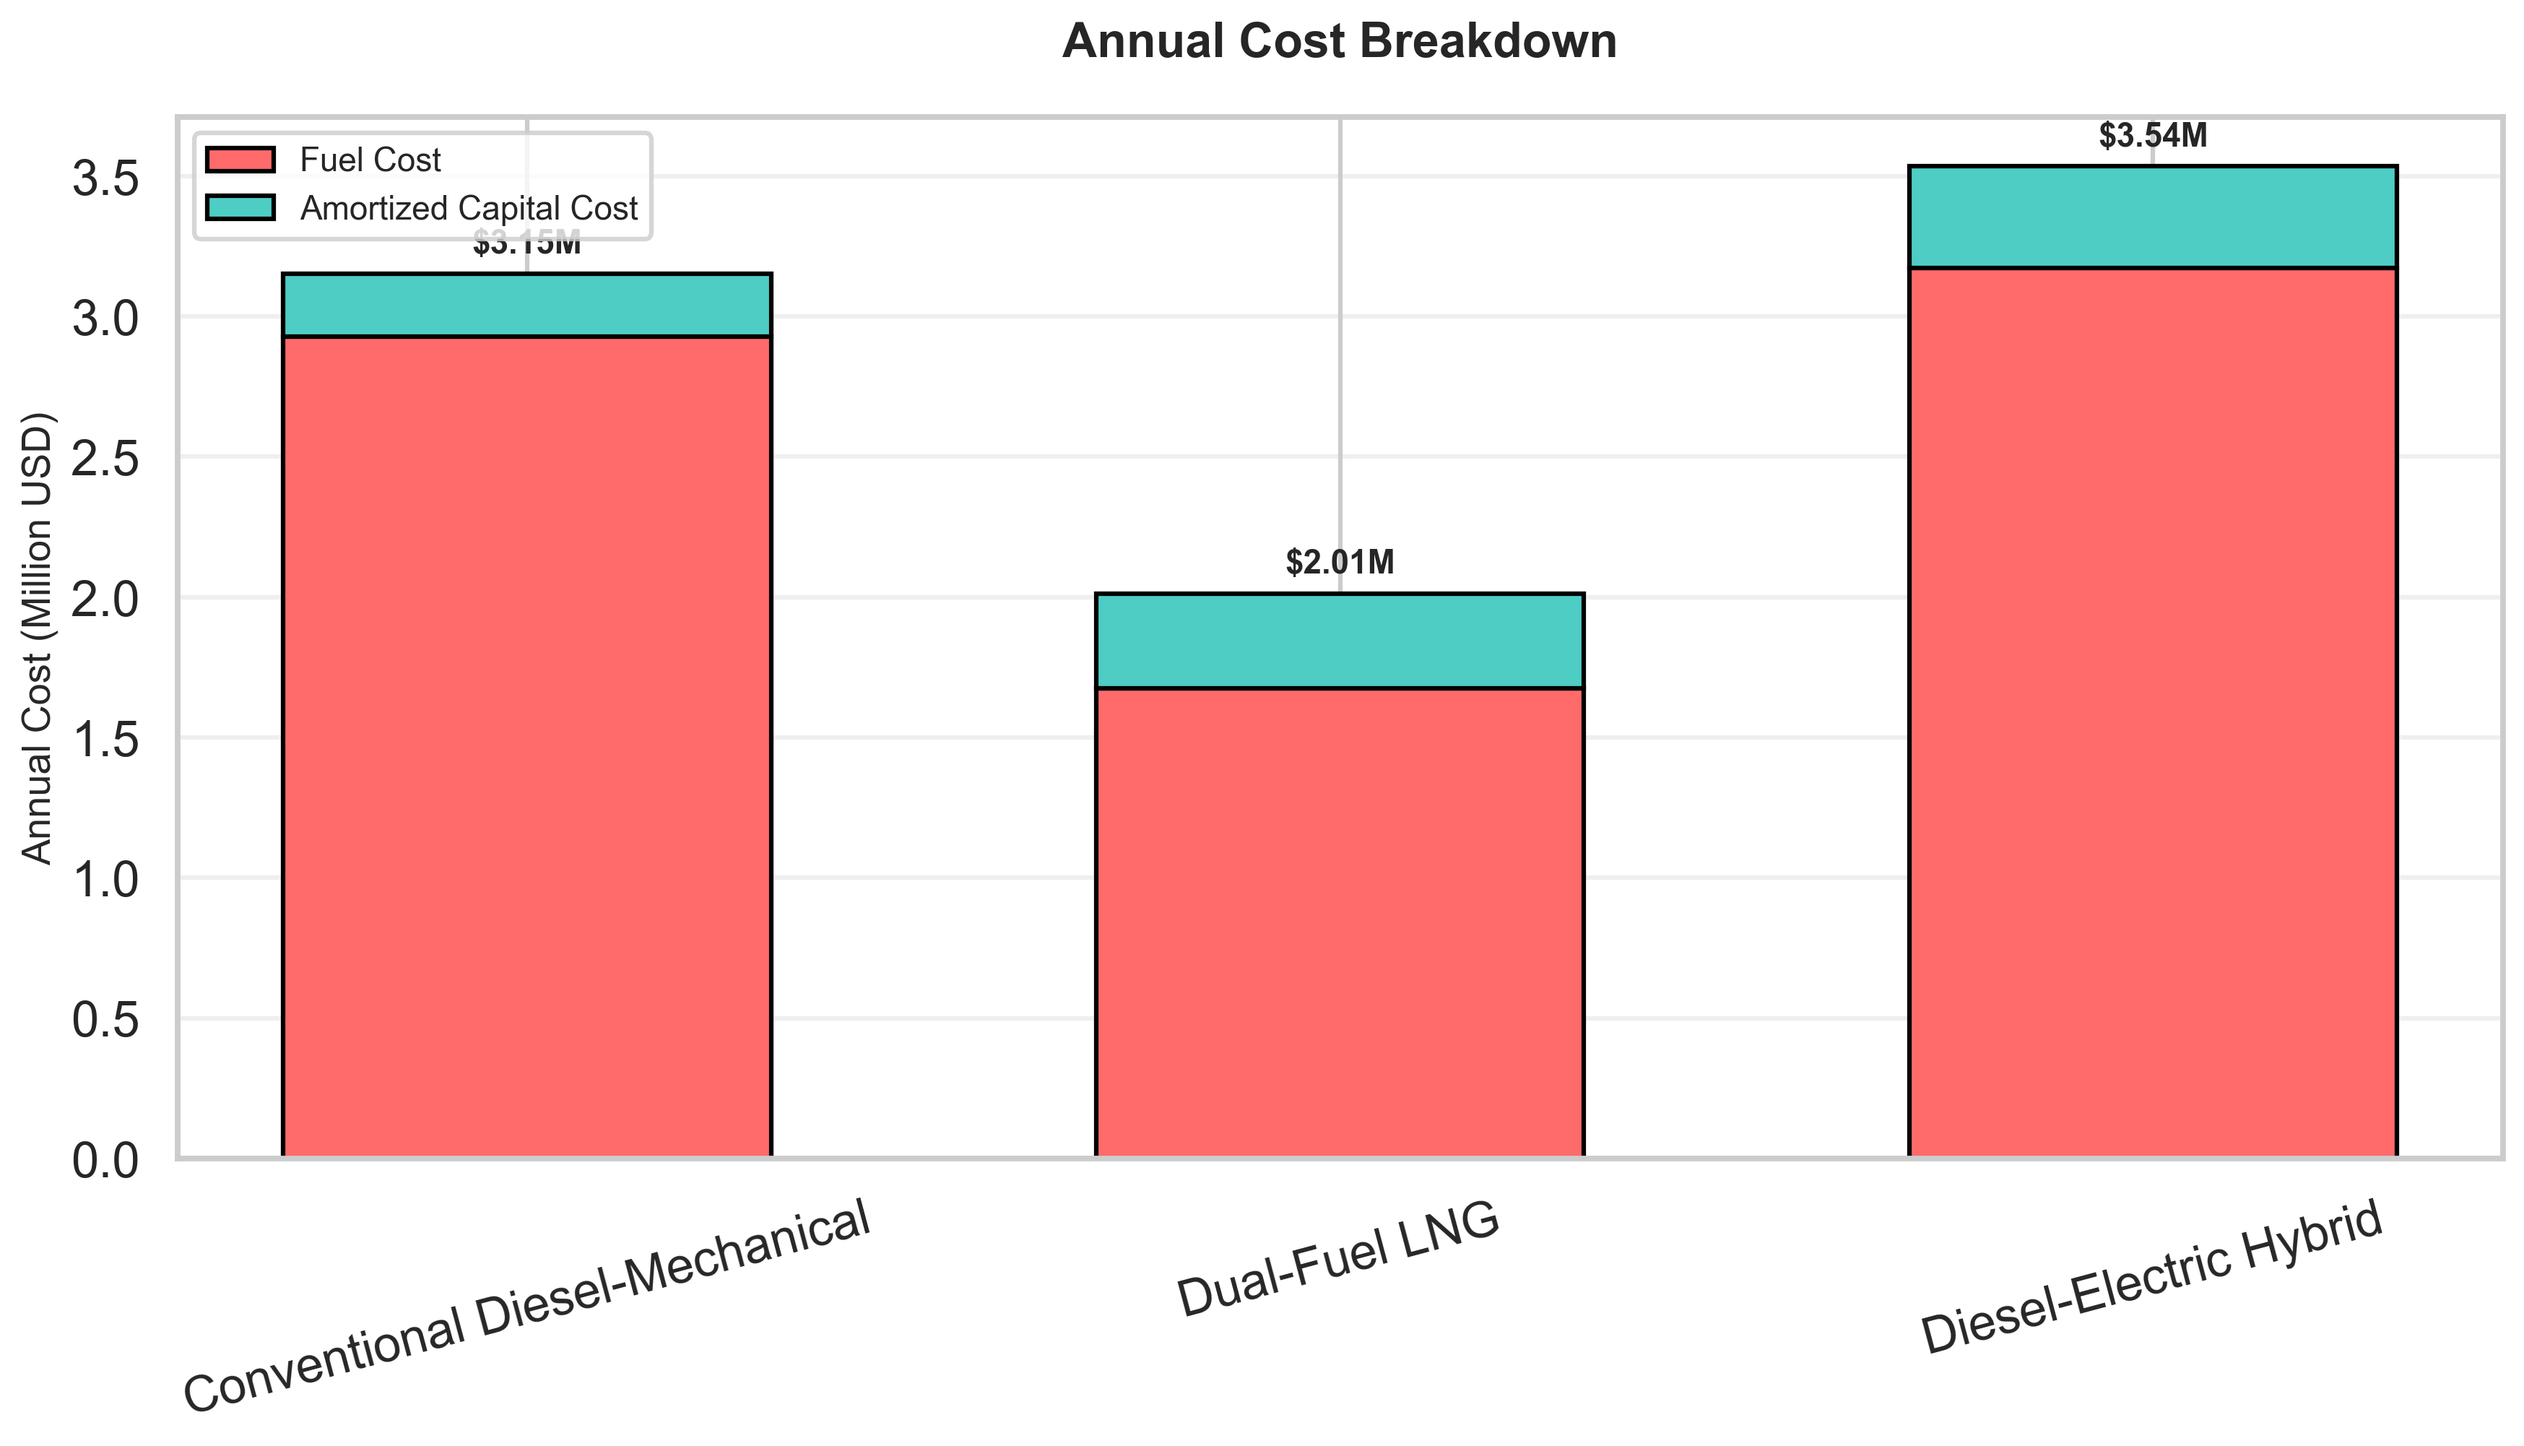
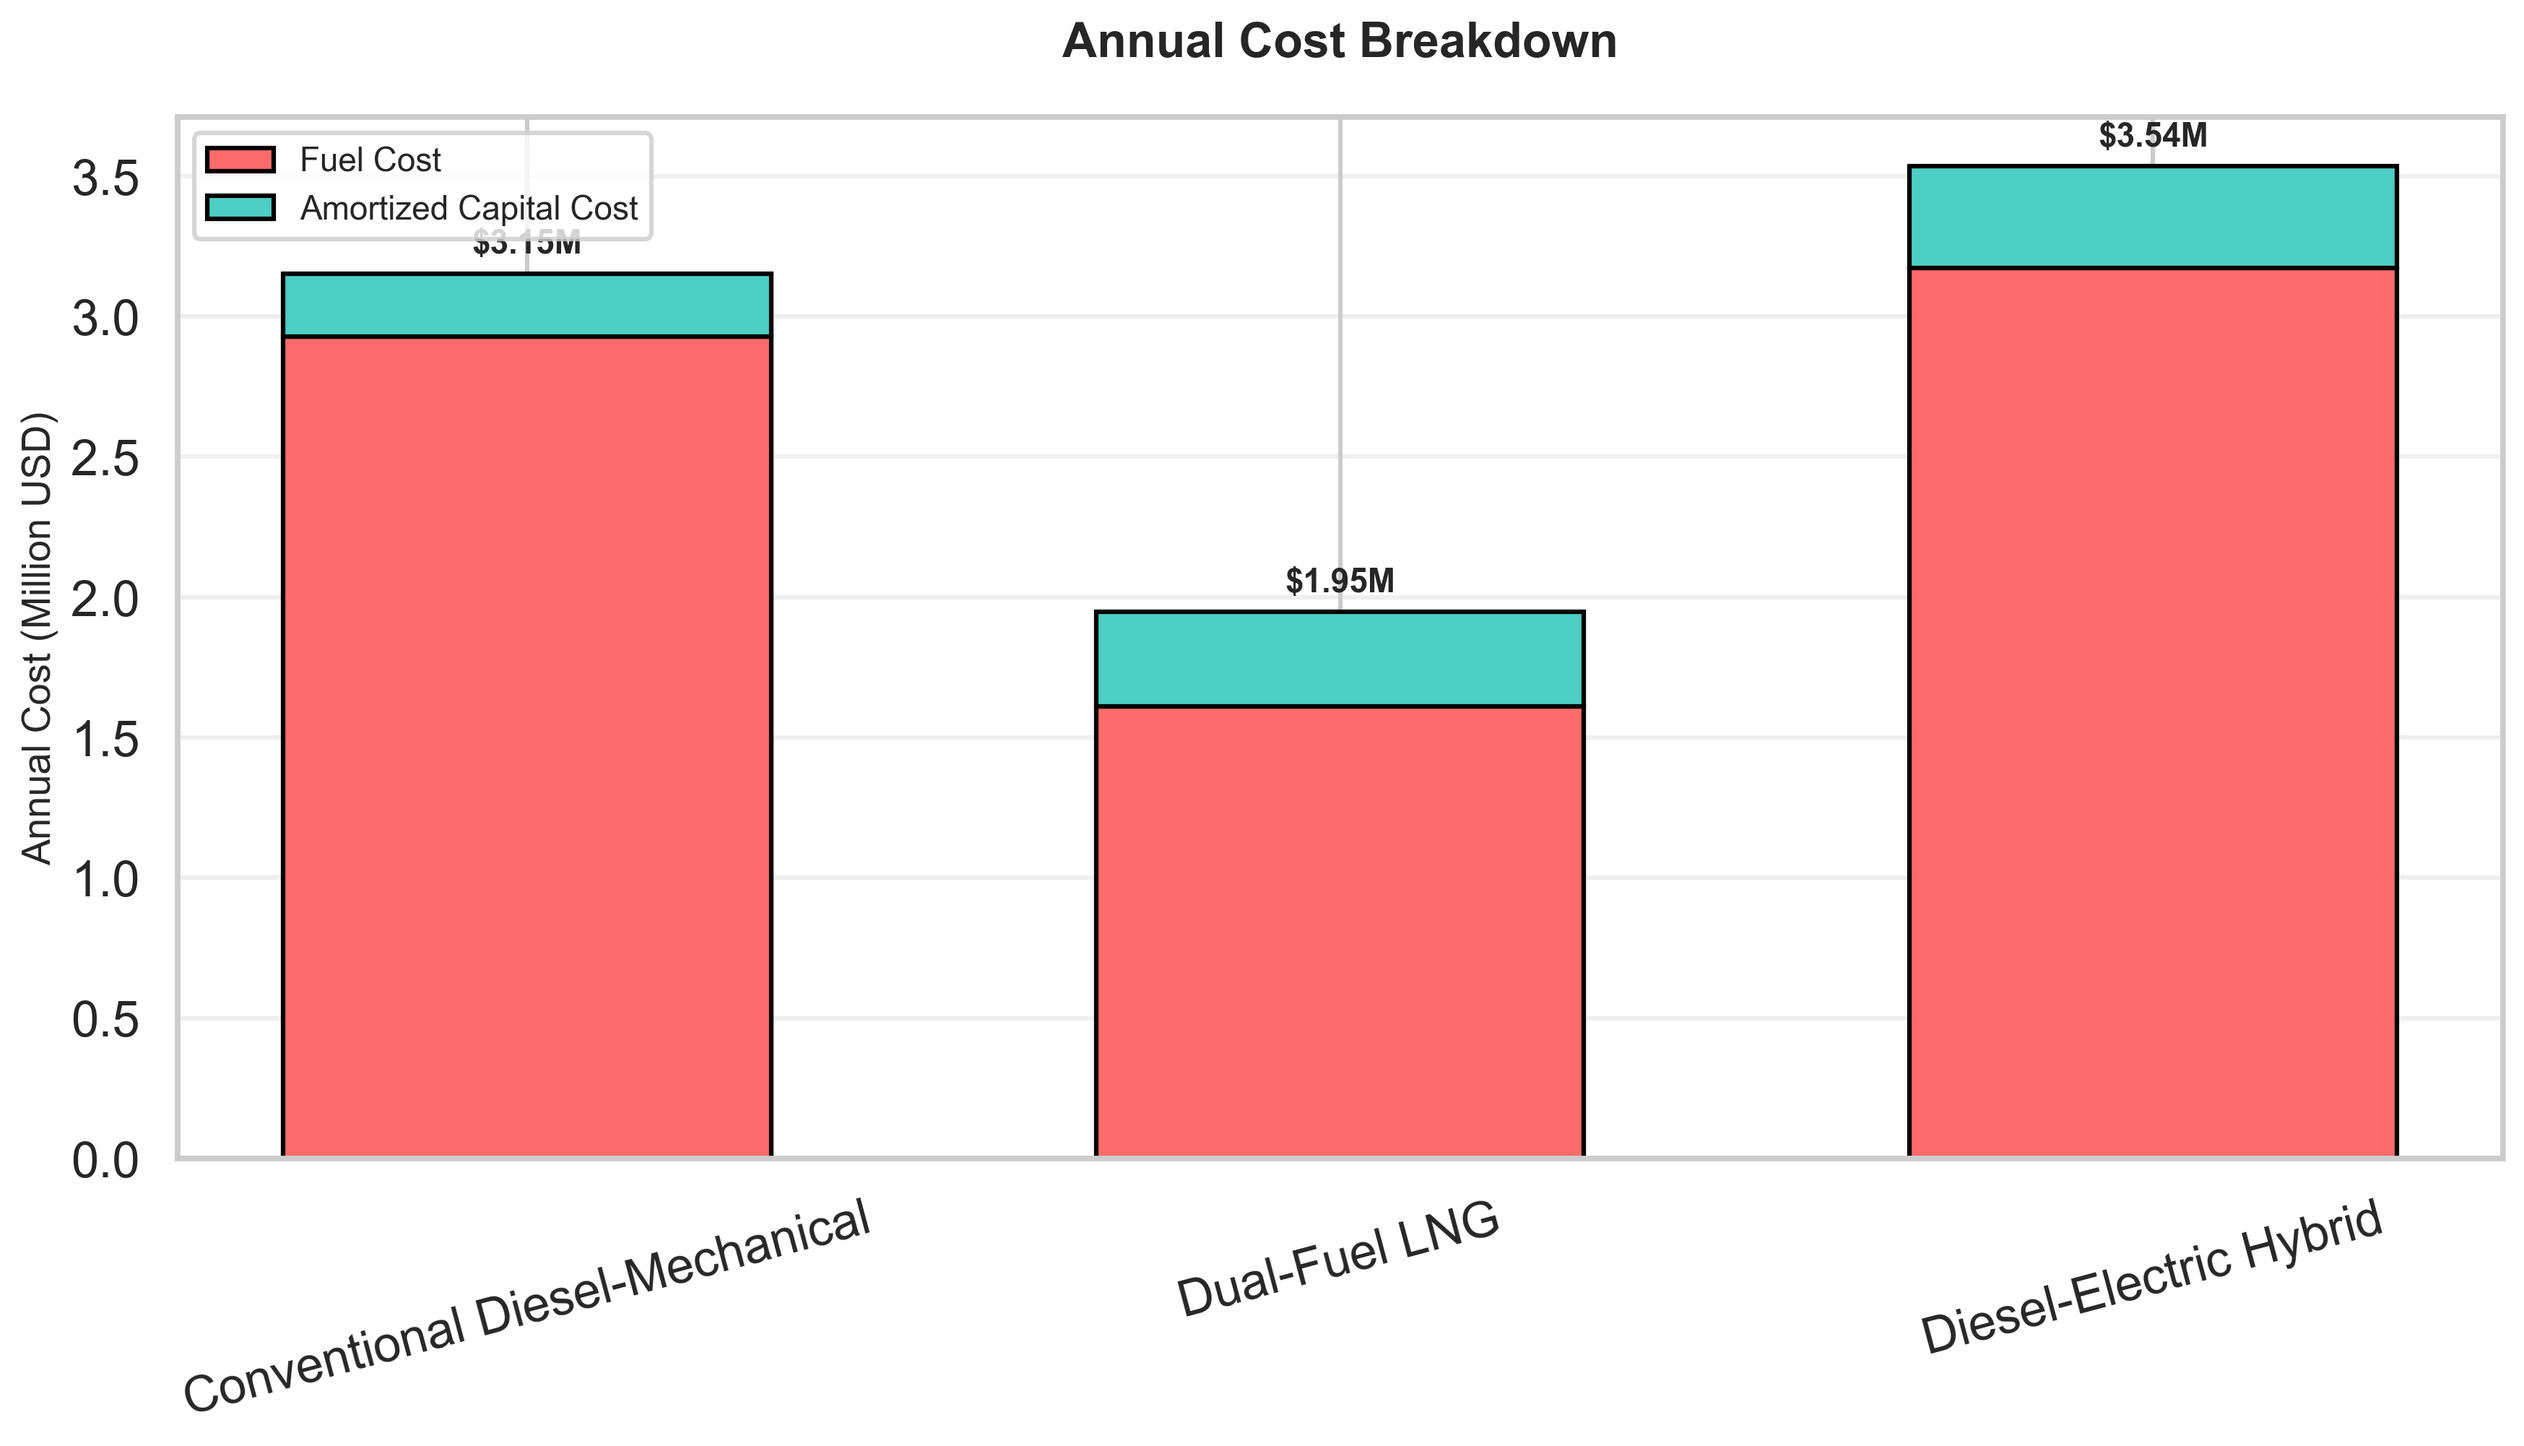
calculation corrected for aux engine sfoc

Changed region(s): [[0.4366, 0.3716, 0.6237, 0.4336], [0.4366, 0.4645, 0.6237, 0.4955]]

diff --git a/src/database.py b/src/database.py
@@ -182,7 +182,7 @@ class VesselDatabase:
                 'Wärtsilä 8L20DF',
                 1280.0,
                 2,
-                172.0,             -- aux SFOC in gas mode @ 85% (calculated)
+                163.2,             -- aux SFOC in gas mode @ 85% (calculated)
                 
                 149.0,             -- sfoc_gas (main engine)
                 176.9,             -- sfoc_diesel (LFO mode)

diff --git a/src/propulsion_models.py b/src/propulsion_models.py
@@ -87,7 +87,7 @@ class DualFuelLNGPropulsion(PropulsionSystem):
       - Gas mode: SFOC 149.0 g/kWh
       - Diesel mode: SFOC 176.9 g/kWh
     - Aux: 2× Wärtsilä 8L20DF (1280 kW)
-      - Gas mode: SFOC 172.0 g/kWh
+      - Gas mode: SFOC 163.2 g/kWh
     - Operation: 95% LNG, 5% MDO backup
     """
     
